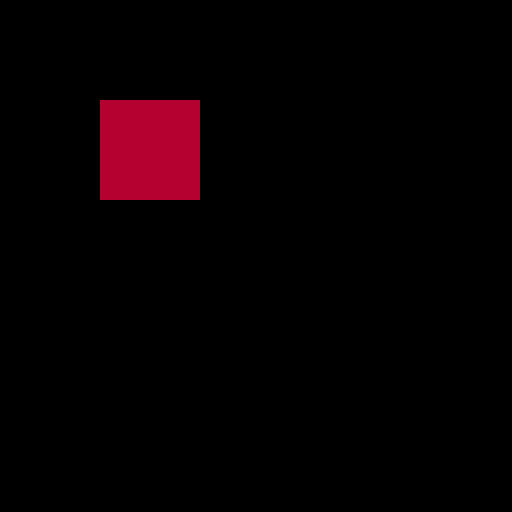
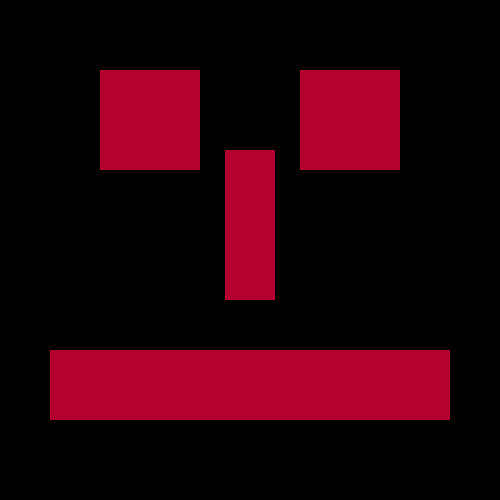
Some changes to be included

diff --git a/tests/test_canvas.rs b/tests/test_canvas.rs
@@ -1,7 +1,7 @@
 #[cfg(test)]
 use generative::canvas::Canvas;
-use photon_rs::native::{open_image, save_image};
-use photon_rs::PhotonImage;
+use photon_rs::native::save_image;
+
 #[test]
 fn test_init() {
     let canv = Canvas::new(512, 512);
@@ -25,9 +25,32 @@ fn test_get_pixel_at() {
 
 #[test]
 fn test_set_pixel_at() {
-    let mut canv = Canvas::new(512, 512);
-    for i in 10..200 {
+    let mut canv = Canvas::new(500, 500);
+
+    // Left Eye
+    for i in 70..170 {
         for j in 100..200 {
+            canv.set_pixel_at(i, j, (180_u8, 2_u8, 50_u8, 255_u8));
+        }
+    }
+
+    // Right Eye
+    for i in 70..170 {
+        for j in 300..400 {
+            canv.set_pixel_at(i, j, (180_u8, 2_u8, 50_u8, 255_u8));
+        }
+    }
+
+    // Nose
+    for i in 150..300 {
+        for j in 225..275 {
+            canv.set_pixel_at(i, j, (180_u8, 2_u8, 50_u8, 255_u8));
+        }
+    }
+
+    // Mouth
+    for i in 350..420 {
+        for j in 50..450 {
             canv.set_pixel_at(i, j, (180_u8, 2_u8, 50_u8, 255_u8));
         }
     }
